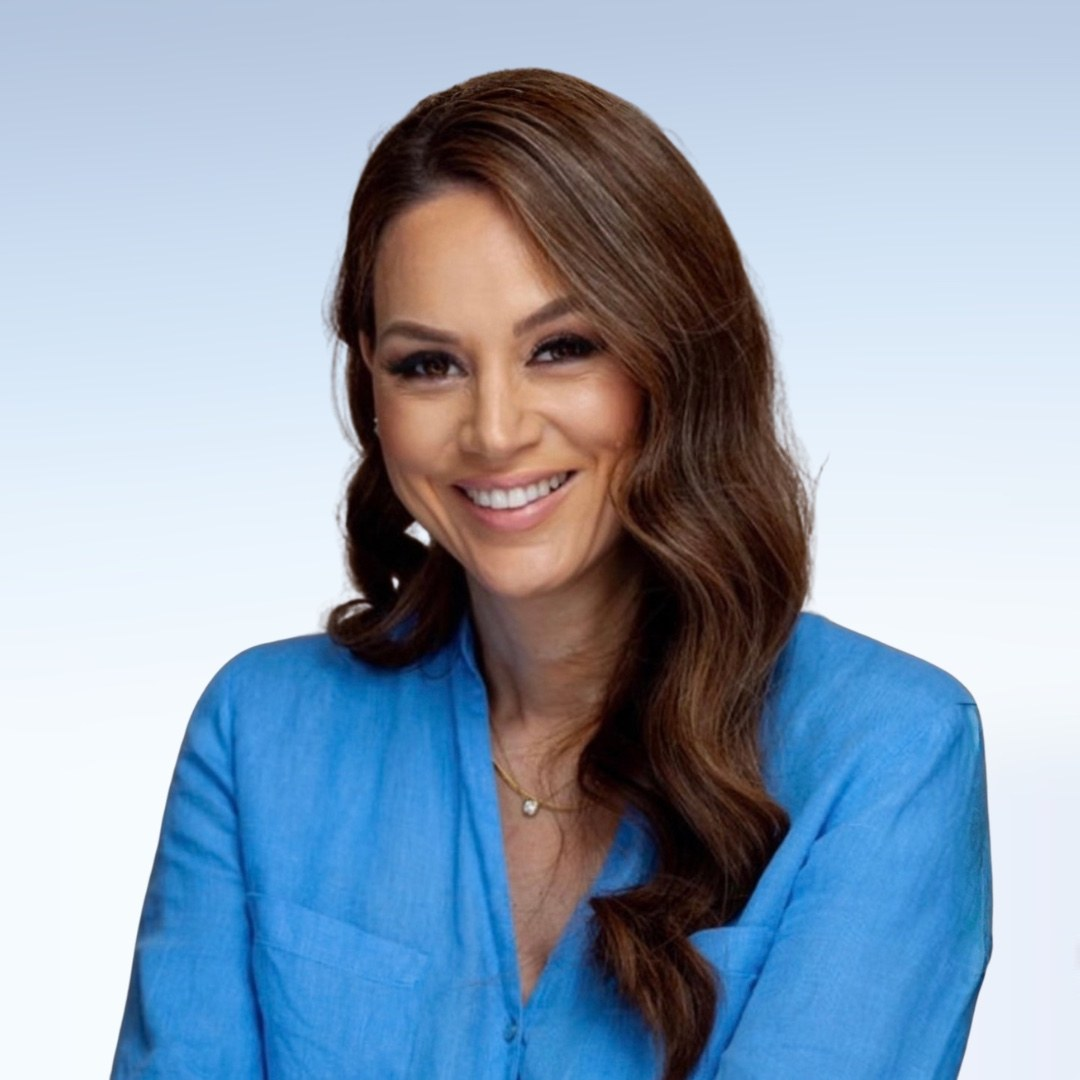
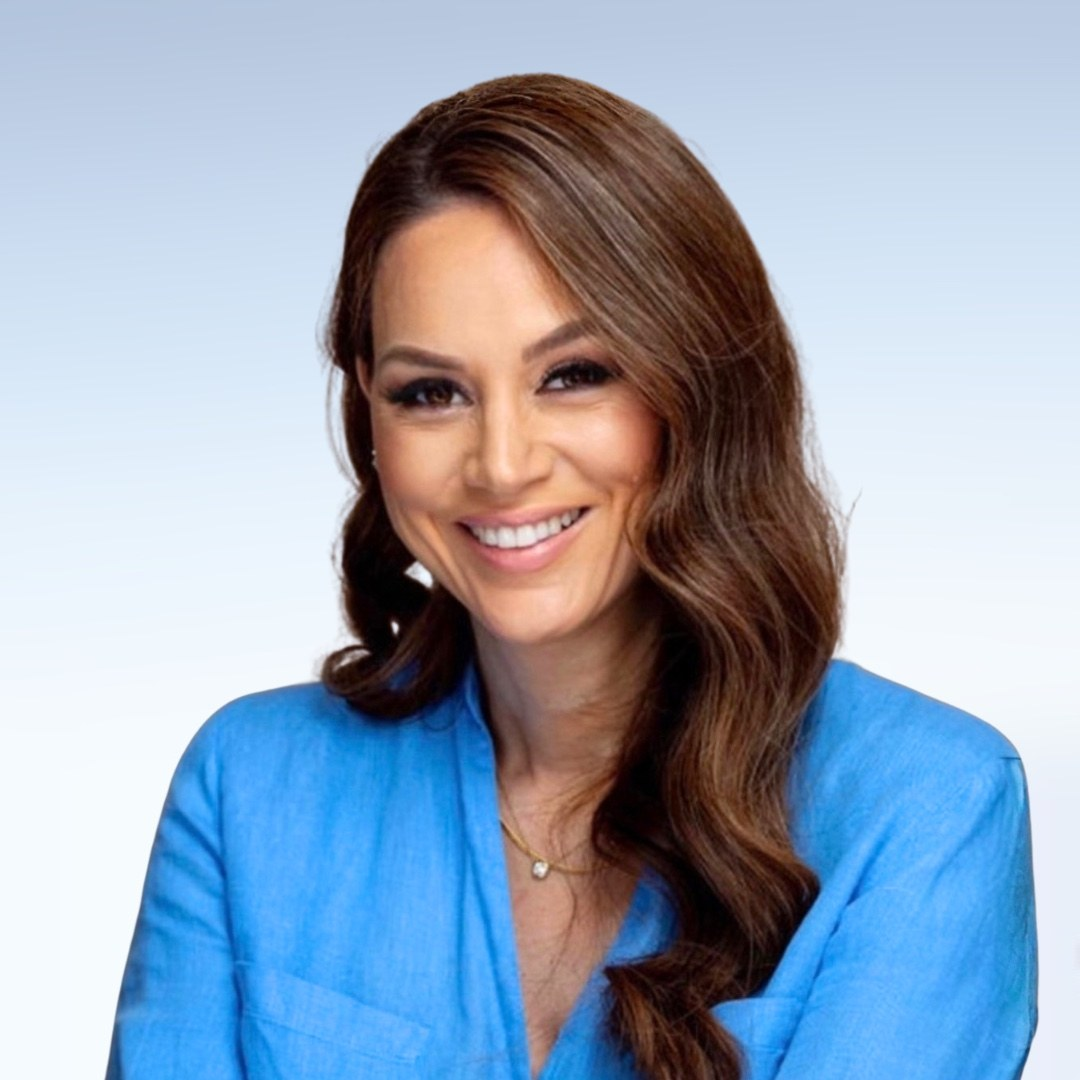
Update Dr. Regine Muradian's photo
Claude-Session: https://claude.ai/code/session_01UY2yYSyHezMTLTrkPybDFD

diff --git a/team.html b/team.html
@@ -105,7 +105,7 @@
       </div>
       <div class="team-grid team-grid-advisory team-grid-leads team-grid-leads-4">
         <div class="team-card">
-          <div class="team-photo"><img src="assets/regine-muradian.jpg" alt="Dr. Regine Muradian"></div>
+          <div class="team-photo"><img src="assets/regine-muradian.jpg?v=2" alt="Dr. Regine Muradian"></div>
           <h3>Dr. Regine Muradian</h3>
           <p class="role"><a href="adlea-leadership-roles.html#wellbeing-guide">Wellbeing Guide</a></p>
           <a class="more" href="adlea-lead-guide-bios.html#regine-muradian">Learn more &#8594;</a>

diff --git a/adlea-lead-guide-bios.html b/adlea-lead-guide-bios.html
@@ -146,7 +146,7 @@
       </div>
 
       <div id="regine-muradian" class="bio-section">
-        <div class="bio-photo"><img src="assets/regine-muradian.jpg" alt="Dr. Regine Muradian"></div>
+        <div class="bio-photo"><img src="assets/regine-muradian.jpg?v=2" alt="Dr. Regine Muradian"></div>
         <div class="bio-text">
           <span class="eyebrow">Lead Guide</span>
           <h2>Dr. Regine Muradian</h2>
